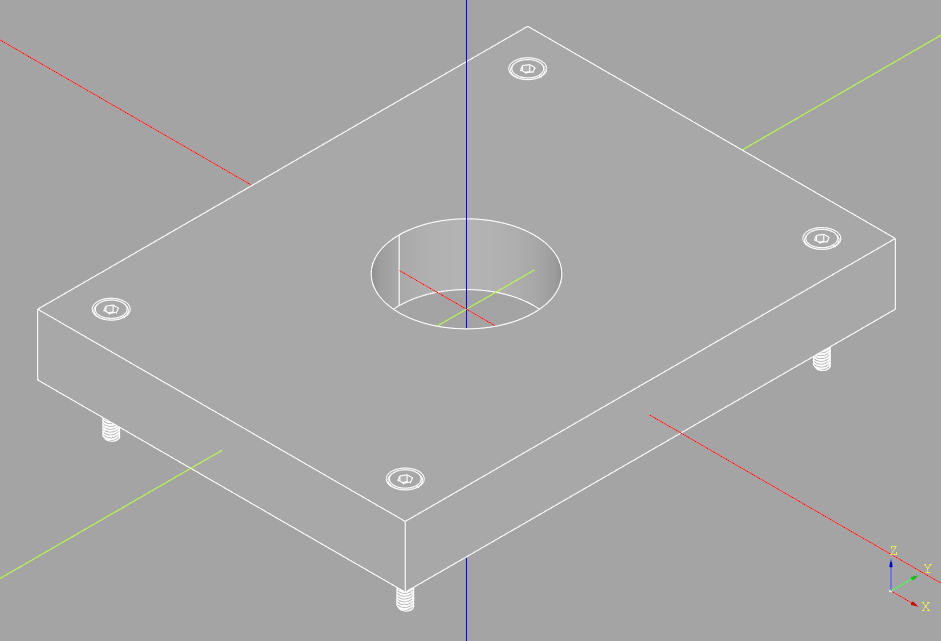
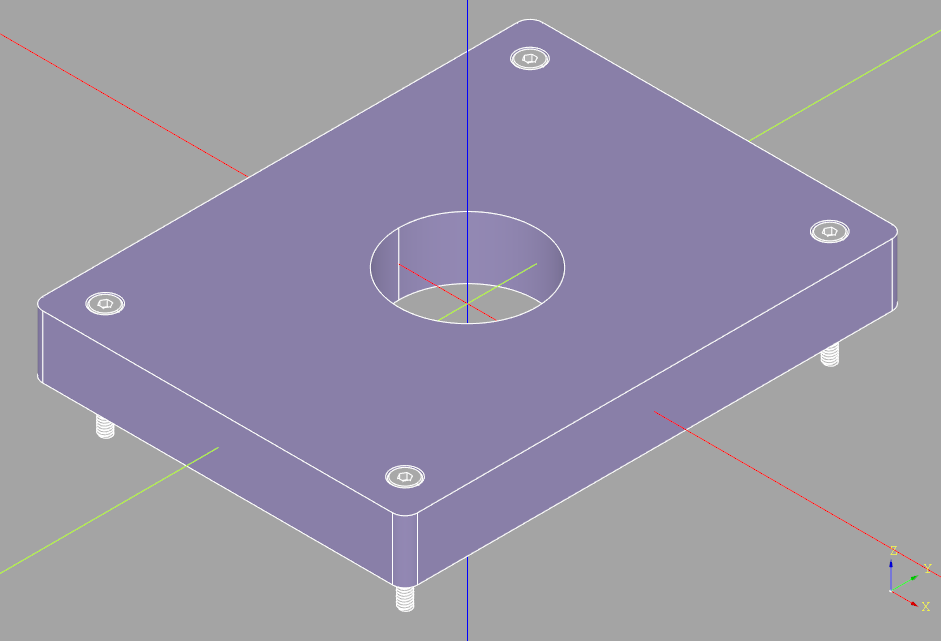
Added Nut and Washer to README

diff --git a/doc/fastener_diagrams.py b/doc/fastener_diagrams.py
@@ -53,10 +53,14 @@ from cq_warehouse.fastener import (
     ChamferedWasher,
     CheeseHeadWasher,
 )
+from cq_warehouse.drafting import Draft
 
 MM = 1
-IN = 25.4 * MM
 
+fastener_title_callout = Draft(font_size=10, label_normal=(1, -1, 0))
+title_callout = fastener_title_callout.callout(
+    label="cq_warehouse.fastener", origin=(0, 0, 75 * MM), justify="center",
+)
 # ------------------------ Screws ------------------------
 
 #
@@ -67,7 +71,6 @@ screw_type_list = [
     (screw_class, screw_type)
     for screw_class, screw_types in screw_type_dict.items()
     for screw_type in screw_types
-    if target_size in screw_class.sizes(screw_type)
 ]
 number_of_screws = len(screw_type_list)
 print(
@@ -84,10 +87,6 @@ screw_list = [
     screw_type[0](screw_type=screw_type[1], size=target_size, length=20, simple=True)
     for screw_type in screw_type_list
 ]
-for screw in screw_list:
-    print(
-        f"{screw.screw_class}({screw.screw_type}) length range: {screw.nominal_lengths}"
-    )
 
 #
 # Calculate the size of the disk such that there is room for all the screws in the perimeter
@@ -98,6 +97,7 @@ disk_radius = total_diameters / (2 * pi)
 #
 # Create the cadquery objects
 disk_assembly = cq.Assembly(name="figure")
+
 # As all of the screws are unique, cycle over the disk creating clearance holes
 # and accumulating the screws in the disk_assembly
 disk = cq.Workplane("XY").circle(disk_radius).extrude(30)
@@ -117,16 +117,17 @@ for i, screw in enumerate(screw_list):
             clean=False,
         )
     )
-# ------------------------ Washers ------------------------
 
+# ------------------------ Washers ------------------------
+# Create a list of all the "target_size" washers in all the washer classes and types
 washer_classes = Washer.__subclasses__()
 target_size = "M6"
 washer_type_dict = Washer.select_by_size(target_size)
+print(washer_type_dict)
 washer_type_list = [
     (washer_class, washer_type)
     for washer_class, washer_types in washer_type_dict.items()
     for washer_type in washer_types
-    if target_size in washer_class.sizes(washer_type)
 ]
 number_of_washers = len(washer_type_list)
 print(
@@ -154,7 +155,6 @@ nut_type_list = [
     (nut_class, nut_type)
     for nut_class, nut_types in nut_type_dict.items()
     for nut_type in nut_types
-    if target_size in nut_class.sizes(nut_type)
 ]
 number_of_nuts = len(nut_type_list)
 print(f"The disc contains {number_of_nuts} {target_size} nuts of the following types:")
@@ -207,31 +207,10 @@ disk = (
     .threadedHole(fastener=screw_list[0], depth=20, simple=True, counterSunk=False,)
 )
 
-
 # Finally, add the finished disk to the assembly
-print(f"Screw.__subclasses__():{Screw.__subclasses__()}")
 disk_assembly.add(disk, name="plate", color=cq.Color(162 / 255, 138 / 255, 255 / 255))
-print(f"CounterSunkScrew types: {CounterSunkScrew.types()}")
-print(f'CounterSunkScrew sizes: {CounterSunkScrew.sizes("iso7046")}')
-print(
-    f'CounterSunkScrew.nominal_length_range["iso7046"]: {CounterSunkScrew.nominal_length_range["iso7046"]}'
-)
-
-screw = CounterSunkScrew(screw_type="iso7046", size="M6-1", length=10)
-print(f"clearance_hole_diameters: {screw.clearance_hole_diameters}")
-print(f"clearance_hole_drill_sizes: {screw.clearance_drill_sizes}")
-print(f"tap_hole_diameters: {screw.tap_hole_diameters}")
-print(f"tap_drill_sizes: {screw.tap_drill_sizes}")
-
-screw_vars = [v for v in vars(Screw) if not v.startswith("_")]
-print(f"Screw base class vars: {screw_vars}")
-screw_methods = [f for f in dir(Screw) if not f.startswith("_")]
-print(f"Screw base class methods: {screw_methods}")
-screw_vars = [v for v in vars(screw_list[0]) if not v.startswith("_")]
-print(f"Screw derived class vars: {screw_vars}")
-screw_methods = [f for f in dir(CheeseHeadScrew) if not f.startswith("_")]
-print(f"Screw derived class methods: {screw_methods}")
 
 if "show_object" in locals():
     show_object(disk, name="disk")
     show_object(disk_assembly, name="disk_assembly")
+    show_object(title_callout, name="title")

diff --git a/examples/pillow_block.py b/examples/pillow_block.py
@@ -8,7 +8,7 @@ diameter = 22.0
 padding = 12.0
 
 # make the screw
-screw = SocketHeadCapScrew(screw_type="iso4762", size="M2-0.4", length=16)
+screw = SocketHeadCapScrew(screw_type="iso4762", size="M2-0.4", length=16, simple=False)
 # make the assembly
 pillow_block = cq.Assembly(None, name="pillow_block")
 # make the base
@@ -23,7 +23,9 @@ base = (
     .rect(height - padding, width - padding, forConstruction=True)
     .vertices()
     .clearanceHole(fastener=screw, baseAssembly=pillow_block)
+    .edges("|Z")
+    .fillet(2.0)
 )
-pillow_block.add(base)
+pillow_block.add(base, name="base", color=cq.Color(162 / 255, 138 / 255, 255 / 255))
 # Render the assembly
 show_object(pillow_block)

diff --git a/src/cq_warehouse/fastener.py b/src/cq_warehouse/fastener.py
@@ -1300,7 +1300,7 @@ class Screw(ABC):
         length: float,
         screw_type: str,
         hand: Optional[Literal["right", "left"]] = "right",
-        simple: Optional[bool] = False,
+        simple: Optional[bool] = True,
         socket_clearance: Optional[float] = 6 * MM,
     ):
         """ Parse Screw input parameters """

diff --git a/README.md b/README.md
@@ -25,11 +25,16 @@ or CAM systems.
     - [callout](#callout)
   - [fastener sub-package](#fastener-sub-package)
     - [Nut](#nut)
-    - [HexNut](#hexnut)
-    - [SquareNut](#squarenut)
+      - [Nut Selection](#nut-selection)
+      - [Derived Nut Classes](#derived-nut-classes)
     - [Screw](#screw)
       - [Screw Selection](#screw-selection)
+      - [Derived Screw Classes](#derived-screw-classes)
+    - [Washer](#washer)
+      - [Washer Selection](#washer-selection)
+      - [Derived Washer Classes](#derived-washer-classes)
     - [Clearance, Tap and Threaded Holes](#clearance-tap-and-threaded-holes)
+      - [API](#api)
     - [Thread](#thread)
     - [ExternalThread](#externalthread)
     - [InternalThread](#internalthread)
@@ -429,48 +434,52 @@ All of the fastener classes provide a `cq_object` instance variable which contai
 The following sections describe each of the provided classes.
 
 ### Nut
-As the base class of all other nut classes it isn't intended for end users.
-### HexNut
-![HexNut](doc/hexnut.png)
-
-HexNut creates hexagonal nuts of either standard or custom sizes. Standard sizes are described by the 'imperial_hex_parameters.csv' or 'metric_hex_parameters.csv' files. The parameters are:
-- `size` (str) : standard sizes
+As the base class of all other nut and bolt classes, all of the derived nut classes share the same interface as follows:
+- `nut_type` (str) : type identifier - e.g. `"iso4032"`
+- `size` (str) : standard sizes - e.g. `"M6-1"`
 - `hand` (Literal["right", "left"] = "right") : thread direction
-- `simple` (bool = False) : simplify thread
+- `simple` (bool = True) : simplify thread
 
-or
-- `width` (float) : width across the flat sections
-- `thread_diameter` (float) : major thread diameter
-- `thread_pitch` (float) : thread pitch (IN / TPI for imperial)
-- `thickness` (float) : maximum nut thickness
-- `hand` (Literal["right", "left"] = "right") : thread direction
-- `simple` (bool = False) : simplify thread
+Each nut instance creates a set of properties that provide the Solid CAD object as well as valuable parameters, as follows (values intended for internal use are not shown):
 
-This class exposes instance variables for the detailed input parameters as well as:
+- `clearance_drill_sizes` - see [Clearance, Tap and Threaded Holes](#clearance-tap-and-threaded-holes)
+- `clearance_hole_diameters` - see [Clearance, Tap and Threaded Holes](#clearance-tap-and-threaded-holes)
 - `cq_object` (cq.Solid) : cadquery Solid object
+- `nut_diameter` (float) : maximum diameter of the nut
+- `nut_thickness` (float) : maximum thickness of the nut
+- `nut_class` - (str) : display friendly class name
+- `tap_drill_sizes` - [Clearance, Tap and Threaded Holes](#clearance-tap-and-threaded-holes)
+- `tap_hole_diameters` - [Clearance, Tap and Threaded Holes](#clearance-tap-and-threaded-holes)
 
+#### Nut Selection
+As there are many classes and types of nuts to select from, the Nut class provides some methods that can help find the correct nut for your application. As a reminder, to find the subclasses of the Nut class, use `__subclasses__()`:
+```python
+Nut.__subclasses__()  # [<class 'cq_warehouse.fastener.DomedCapNut'>, ...]
+```
+Here is a summary of the class methods:
+- `types()` : (set{str}) - create a set of nut types, e.g.:
+```python
+HexNut.types() # {'iso4033', 'iso4032', 'iso4035'}
+```
+- `sizes(nut_type:str)` : (list[str]) - create a list of nut sizes, e.g.:
+```python
+HexNut.sizes("iso4033") # ['M1.6-0.35', 'M1.8-0.35', 'M2-0.4', 'M2.5-0.45', 'M3-0.45', 'M3.5-0.6', 'M4-0.7', 'M5-0.8', 'M6-1', 'M8-1.25', 'M10-1.5', 'M12-1.75', 'M14-2', 'M16-2', 'M18-2.5', 'M20-2.5', 'M22-2.5', 'M24-3', 'M27-3', 'M30-3.5', 'M33-3.5', 'M36-4', 'M39-4', 'M42-4.5', 'M45-4.5', 'M48-5', 'M52-5']
+```
+- `select_by_size(size:str)` : (dict{class:[type,...],} - e.g.:
+```python
+Nut.select_by_size("M6-1") # {<class 'cq_warehouse.fastener.DomedCapNut'>: ['din1587'], <class 'cq_warehouse.fastener.HexNut'>: ['iso4035', 'iso4032', 'iso4033'], <class 'cq_warehouse.fastener.HexNutWithFlange'>: ['din1665'], <class 'cq_warehouse.fastener.UnchamferedHexagonNut'>: ['iso4036'], <class 'cq_warehouse.fastener.SquareNut'>: ['din557']}
+```
+#### Derived Nut Classes
+The following is a list of the current nut classes derived from the base Nut class. Also listed is the types for each of these derived classes where the type refers to a standard that defines the nut parameters. All derived nuts inherit the same API as the base Nut class.
+- `DomedCapNut`: din1587
+- `HexNut`: iso4033, iso4035, iso4032
+- `HexNutWithFlange`: din1665
+- `UnchamferedHexagonNut`: iso4036
+- `SquareNut`: din557
 
-### SquareNut
-![SquareNut](doc/squarenut.png)
-
-SquareNut creates square nuts of either standard or custom sizes. Standard sizes are described by the 'imperial_hex_parameters.csv' or 'metric_hex_parameters.csv' files as the width across the flat sections is the same as for hex nuts. The parameters are:
-- `size` (str) : standard sizes
-- `hand` (Literal["right", "left"] = "right") : thread direction
-- `simple` (bool = False) : simplify thread
-
-or
-- `width` (float) : width
-- `thread_diameter` (float) : major thread diameter
-- `thread_pitch` (float) : thread pitch (IN / TPI for imperial)
-- `thickness` (float) : maximum nut thickness
-- `hand` (Literal["right", "left"] = "right") : thread direction
-- `simple` (bool = False) : simplify thread
-
-This class exposes instance variables for the detailed input parameters as well as:
-- `cq_object` (cq.Solid) : cadquery Solid object
-
+Detailed information about any of the nut types can be readily found on the internet from manufacture's websites or from the standard document itself.
 ### Screw
-As the base class of all other screw and bolt classes. All of the derived screw classes share the same interface as follows:
+As the base class of all other screw and bolt classes, all of the derived screw classes share the same interface as follows:
 - `screw_type` (str) : type identifier - e.g. `"iso4014"`
 - `size` (str) : standard sizes - e.g. `"M6-1"`
 - `length` (float) : distance from base of head to tip of thread
@@ -514,20 +523,6 @@ CounterSunkScrew.sizes("iso7046") # ['M1.6-0.35', 'M2-0.4', 'M2.5-0.45', 'M3-0.5
 ```python
 Screw.select_by_size("M6-1") # {<class 'cq_warehouse.fastener.ButtonHeadScrew'>: ['iso7380_1'], <class 'cq_warehouse.fastener.ButtonHeadWithCollarScrew'>: ['iso7380_2'], ...}
 ```
-As of current release of cq_warehouse, displaying this dictionary results in the following (note that the Class descriptors have been converted to names with the `__name__` method):
-- ButtonHeadScrew : iso7380_1
-- ButtonHeadWithCollarScrew : iso7380_2
-- CheeseHeadScrew : iso7048, iso1207, iso14580
-- CounterSunkScrew : iso7046, iso14582, iso14581, iso10642, iso2009
-- HexHeadScrew : iso4017, din931, iso4014
-- HexHeadWithFlangeScrew : din1665, din1662
-- PanHeadScrew : iso14583, iso1580
-- PanHeadWithCollarScrew : din967
-- RaisedCheeseHeadScrew : iso7045
-- RaisedCounterSunkOvalHeadScrew : iso14584, iso7047, iso2010
-- SetScrew : iso4026
-- SocketHeadCapScrew : iso4762
-
 To see if a given screw type has screws in the length you are looking for, each screw class provides a dictionary of available lengths, as follows:
 - `nominal_length_range[screw_type:str]` : (list[float]) - all the nominal lengths for this screw type, e.g.:
 ```python
@@ -538,6 +533,63 @@ During instantiation of a screw any value of `length` may be used; however, the 
 screw = CounterSunkScrew(screw_type="iso7046",size="M6-1",length=12*MM)
 screw.nominal_lengths # [8.0, 10.0, 12.0, 14.0, 16.0, 20.0, 25.0, 30.0, 35.0, 40.0, 45.0, 50.0, 55.0, 60.0]
 ```
+#### Derived Screw Classes
+The following is a list of the current screw classes derived from the base Screw class. Also listed is the types for each of these derived classes where the type refers to a standard that defines the screw parameters. All derived screws inherit the same API as the base Screw class.
+- `ButtonHeadScrew`: iso7380_1
+- `ButtonHeadWithCollarScrew`: iso7380_2
+- `CheeseHeadScrew`: iso14580, iso7048, iso1207
+- `CounterSunkScrew`: iso2009, iso14582, iso14581, iso10642, iso7046
+- `HexHeadScrew`: iso4017, din931, iso4014
+- `HexHeadWithFlangeScrew`: din1662, din1665
+- `PanHeadScrew`: asme_b_18.6.3, iso1580, iso14583
+- `PanHeadWithCollarScrew`: din967
+- `RaisedCheeseHeadScrew`: iso7045
+- `RaisedCounterSunkOvalHeadScrew`: iso2010, iso7047, iso14584
+- `SetScrew`: iso4026
+- `SocketHeadCapScrew`: iso4762, asme_b18.3
+
+Detailed information about any of the screw types can be readily found on the internet from manufacture's websites or from the standard document itself.
+### Washer
+As the base class of all other washer and bolt classes, all of the derived washer classes share the same interface as follows:
+- `washer_type` (str) : type identifier - e.g. `"iso4032"`
+- `size` (str) : standard sizes - e.g. `"M6-1"`
+
+Each washer instance creates a set of properties that provide the Solid CAD object as well as valuable parameters, as follows (values intended for internal use are not shown):
+
+- `clearance_drill_sizes` - see [Clearance, Tap and Threaded Holes](#clearance-tap-and-threaded-holes)
+- `clearance_hole_diameters` - see [Clearance, Tap and Threaded Holes](#clearance-tap-and-threaded-holes)
+- `cq_object` (cq.Solid) : cadquery Solid object
+- `washer_diameter` (float) : maximum diameter of the washer
+- `washer_thickness` (float) : maximum thickness of the washer
+- `washer_class` - (str) : display friendly class name
+
+#### Washer Selection
+As there are many classes and types of washers to select from, the Washer class provides some methods that can help find the correct washer for your application. As a reminder, to find the subclasses of the Washer class, use `__subclasses__()`:
+```python
+Washer.__subclasses__()  # [<class 'cq_warehouse.fastener.PlainWasher'>, <class 'cq_warehouse.fastener.ChamferedWasher'>, <class 'cq_warehouse.fastener.CheeseHeadWasher'>]
+```
+Here is a summary of the class methods:
+- `types()` : (set{str}) - create a set of washer types, e.g.:
+```python
+PlainWasher.types() # {'iso7091', 'iso7089', 'iso7093', 'iso7094'}
+```
+- `sizes(washer_type:str)` : (list[str]) - create a list of washer sizes, e.g.:
+```python
+PlainWasher.sizes("iso7091") # ['M1.6', 'M1.7', 'M2', 'M2.3', 'M2.5', 'M2.6', 'M3', 'M3.5', 'M4', 'M5', 'M6', 'M7', 'M8', 'M10', 'M12', 'M14', 'M16', 'M18', 'M20', 'M22', 'M24', 'M26', 'M27', 'M28', 'M30', 'M32', 'M33', 'M35', 'M36']
+```
+- `select_by_size(size:str)` : (dict{class:[type,...],} - e.g.:
+```python
+Washer.select_by_size("M6") # {<class 'cq_warehouse.fastener.PlainWasher'>: ['iso7094', 'iso7093', 'iso7089', 'iso7091'], <class 'cq_warehouse.fastener.ChamferedWasher'>: ['iso7090'], <class 'cq_warehouse.fastener.CheeseHeadWasher'>: ['iso7092']}
+```
+
+#### Derived Washer Classes
+The following is a list of the current washer classes derived from the base Washer class. Also listed is the types for each of these derived classes where the type refers to a standard that defines the washer parameters. All derived washers inherit the same API as the base Washer class.
+- `PlainWasher`: iso7094, iso7093, iso7089, iso7091
+- `ChamferedWasher`: iso7090
+- `CheeseHeadWasher`: iso7092
+
+Detailed information about any of the washer types can be readily found on the internet from manufacture's websites or from the standard document itself.
+
 ### Clearance, Tap and Threaded Holes
 When designing parts with CadQuery a common operation is to place holes appropriate to a specific fastener into the part. This operation is optimized with cq_warehouse by the following three new Workplane methods:
 - `cq.Workplane.clearanceHole`,
@@ -558,7 +610,7 @@ diameter = 22.0
 padding = 12.0
 
 # make the screw
-screw = SocketHeadCapScrew(screw_type="iso4762", size="M2-0.4", length=16)
+screw = SocketHeadCapScrew(screw_type="iso4762", size="M2-0.4", length=16, simple=False)
 # make the assembly
 pillow_block = cq.Assembly(None, name="pillow_block")
 # make the base
@@ -573,6 +625,8 @@ base = (
     .rect(height - padding, width - padding, forConstruction=True)
     .vertices()
     .clearanceHole(fastener=screw, baseAssembly=pillow_block)
+    .edges("|Z")
+    .fillet(2.0)
 )
 pillow_block.add(base)
 # Render the assembly
@@ -586,9 +640,13 @@ The differences between this code and the Read the Docs version are:
 - an assembly is created and later the base is added to that assembly
 - the call to cskHole is replaced with clearanceHole
 
+Not only were the appropriate holes for M2-0.4 screws created but an assembly was created to store all of the parts in this project all without having to research the dimensions of M2 screws.
+
+Note: In this example the `simple=False` parameter creates accurate threads on each of the screws which significantly increases the complexity of the model. The default of simple is True which models the thread as a simple cylinder which is sufficient for most applications without the performance cost of accurate threads. Also note that the default color of the pillow block "base" was changed to better contrast the screws.
+#### API
 The APIs of these three methods are:
 
-clearanceHole: A hole that allows the screw to freely move
+clearanceHole: A hole that allows the screw to be inserted freely
 - `fastener`: Union[Nut, Screw],
 - `washers`: Optional[List[Washer]] = None,
 - `fit`: Optional[Literal["Close", "Normal", "Loose"]] = "Normal",
@@ -617,7 +675,7 @@ threadedHole: A hole with a integral thread
 - `baseAssembly`: Optional[cq.Assembly] = None,
 - `clean`: Optional[bool] = True,
 
-One can see, the API for all three methods are very similar. The `fit` parameter is used for clearance hole dimensions and to calculate the gap around the head of a countersunk screw. The `material` parameter controls the size of the tap hole as they differ as a function of the material the part is made off. For clearance and tap holes, `depth` values of `None` are treated as thru holes. The threaded hole method requires that `depth` be specified as a consequence of how the thread is constructed.
+One can see, the API for all three methods are very similar. The `fit` parameter is used for clearance hole dimensions and to calculate the gap around the head of a countersunk screw. The `material` parameter controls the size of the tap hole as they differ as a function of the material the part is made of. For clearance and tap holes, `depth` values of `None` are treated as thru holes. The threaded hole method requires that `depth` be specified as a consequence of how the thread is constructed.
 
 The data used in the creation of these holes is available via three instance methods:
 ```python
@@ -628,7 +686,7 @@ screw.clearance_drill_sizes # {'Close': '6.4', 'Normal': '6.6', 'Loose': '7'}
 screw.tap_hole_diameters # {'Soft': 5.0, 'Hard': 5.4}
 screw.tap_drill_sizes # {'Soft': '5', 'Hard': '5.4'}
 ```
-Note that with imperial sized holes (e.g. 7/16), the drill sizes could be a fractional size (e.g. 25/64) or a numbered or lettered size (e.g. U). This information can be added to your designs with the cq_warehouse.dimensions package.
+Note that with imperial sized holes (e.g. 7/16), the drill sizes could be a fractional size (e.g. 25/64) or a numbered or lettered size (e.g. U). This information can be added to your designs with the [drafting sub-package](#drafting-sub-package).
 
 ### Thread
 As the base class of the other thread classes it isn't intended for end users. Both external and internal threads are ISO standard by default as shown in the following diagram (from https://en.wikipedia.org/wiki/ISO_metric_screw_thread):
